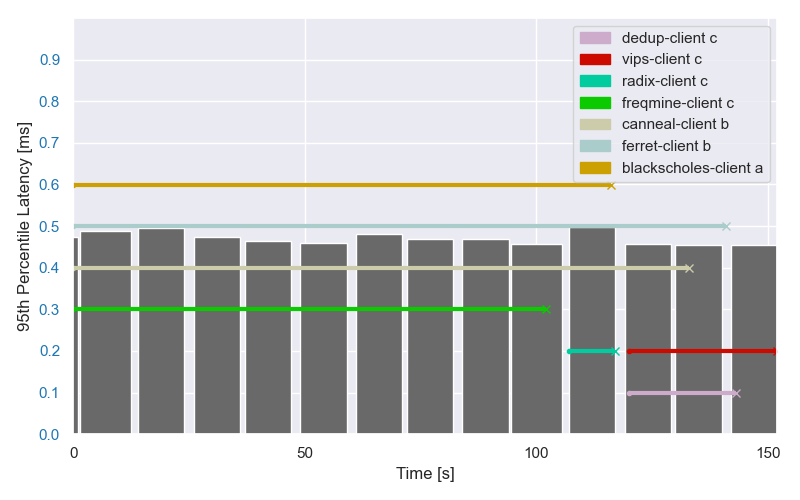
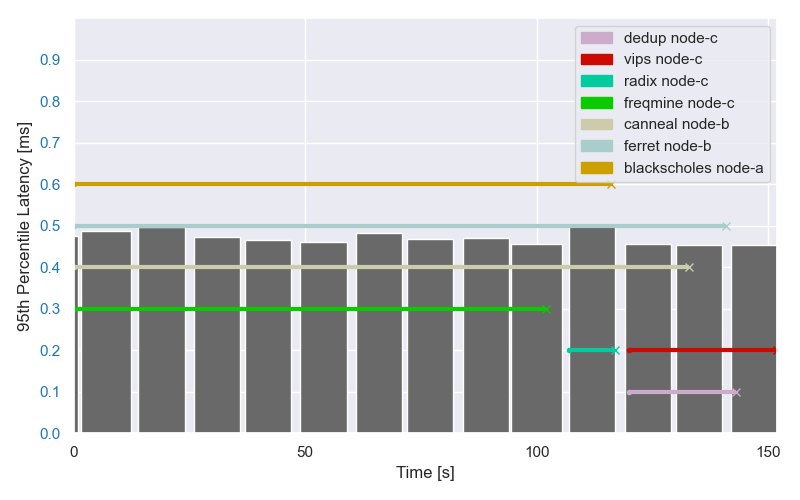
update plot labels

diff --git a/part3/plot/generate_figure.py b/part3/plot/generate_figure.py
@@ -11,7 +11,7 @@ import matplotlib.patches as mpatches
 sns.set_theme()
 
 benchmarks = ['dedup', 'vips', 'radix','freqmine', 'canneal', 'ferret', 'blackscholes' ]
-benchmarks_labels = ['dedup-client c', 'vips-client c', 'radix-client c','freqmine-client c', 'canneal-client b', 'ferret-client b', 'blackscholes-client a' ]
+benchmarks_labels = ['dedup node-c', 'vips node-c', 'radix node-c','freqmine node-c', 'canneal node-b', 'ferret node-b', 'blackscholes node-a']
 colors = ['#CCACCA', '#CC0A00', '#00CCA0', '#0CCA00', '#CCCCAA', '#AACCCA', '#CCA000']
 runtimes_start = {name: [] for name in benchmarks}
 runtimes_end = {name: [] for name in benchmarks}
